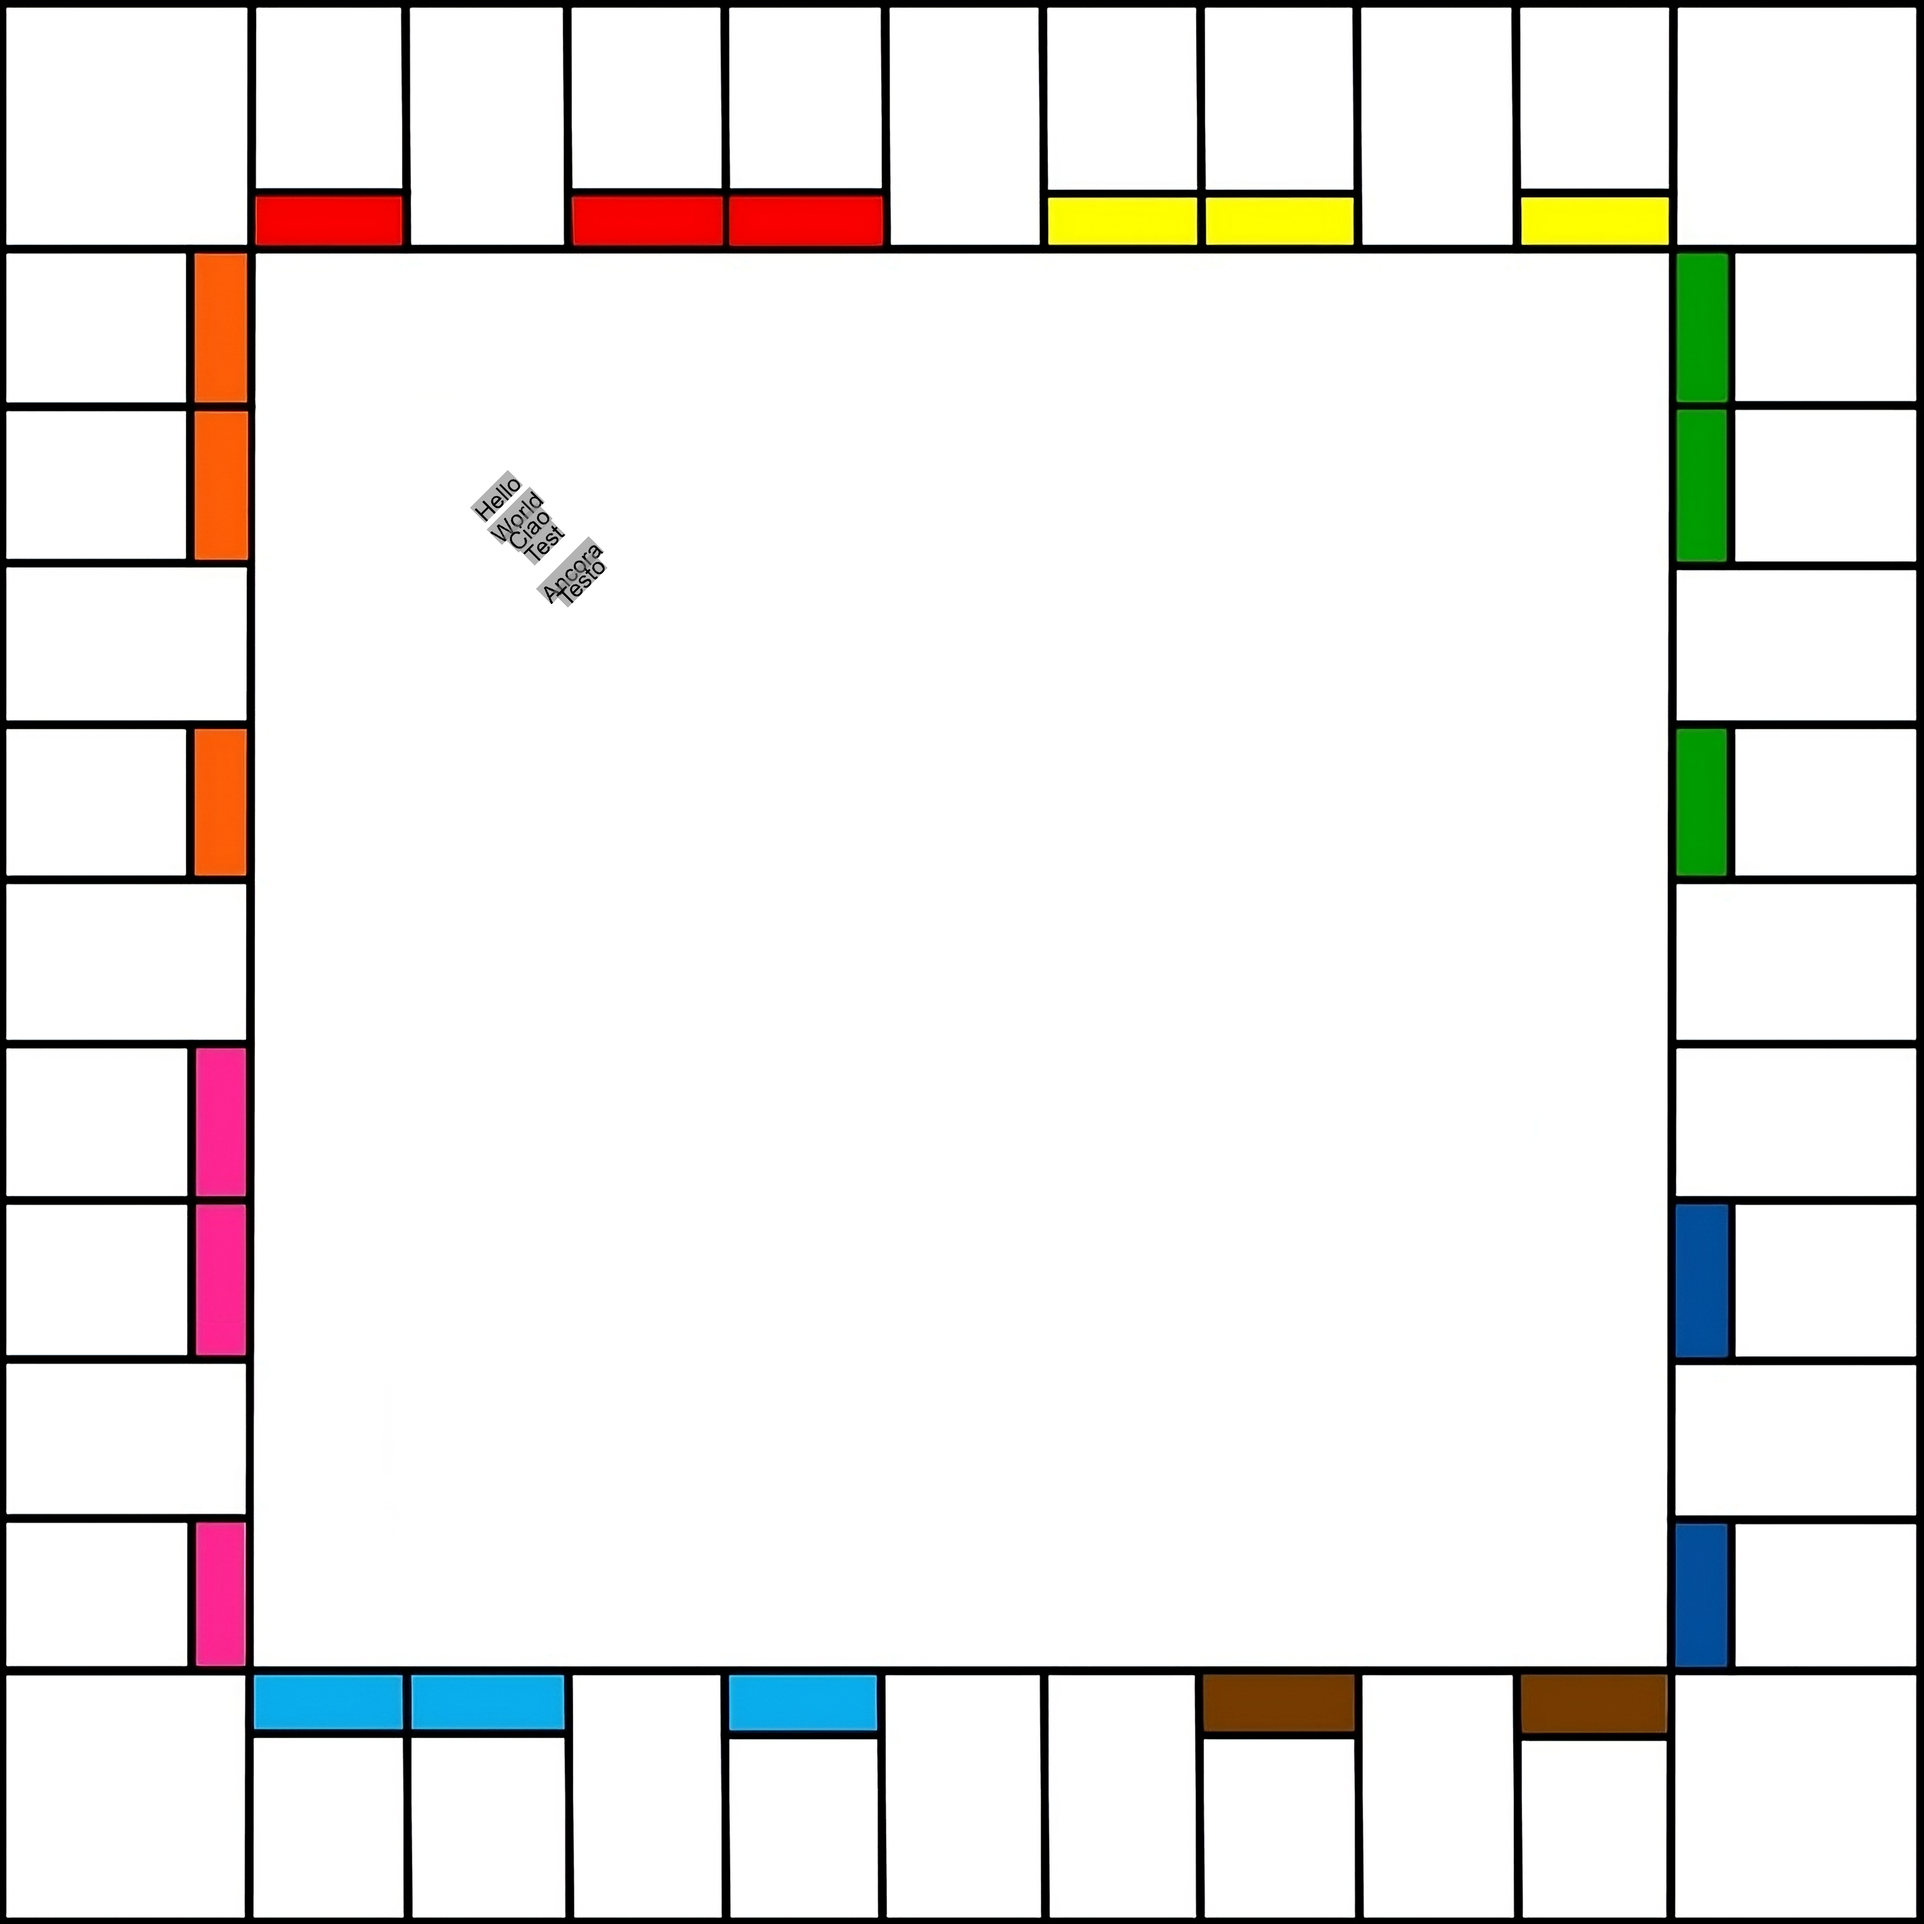
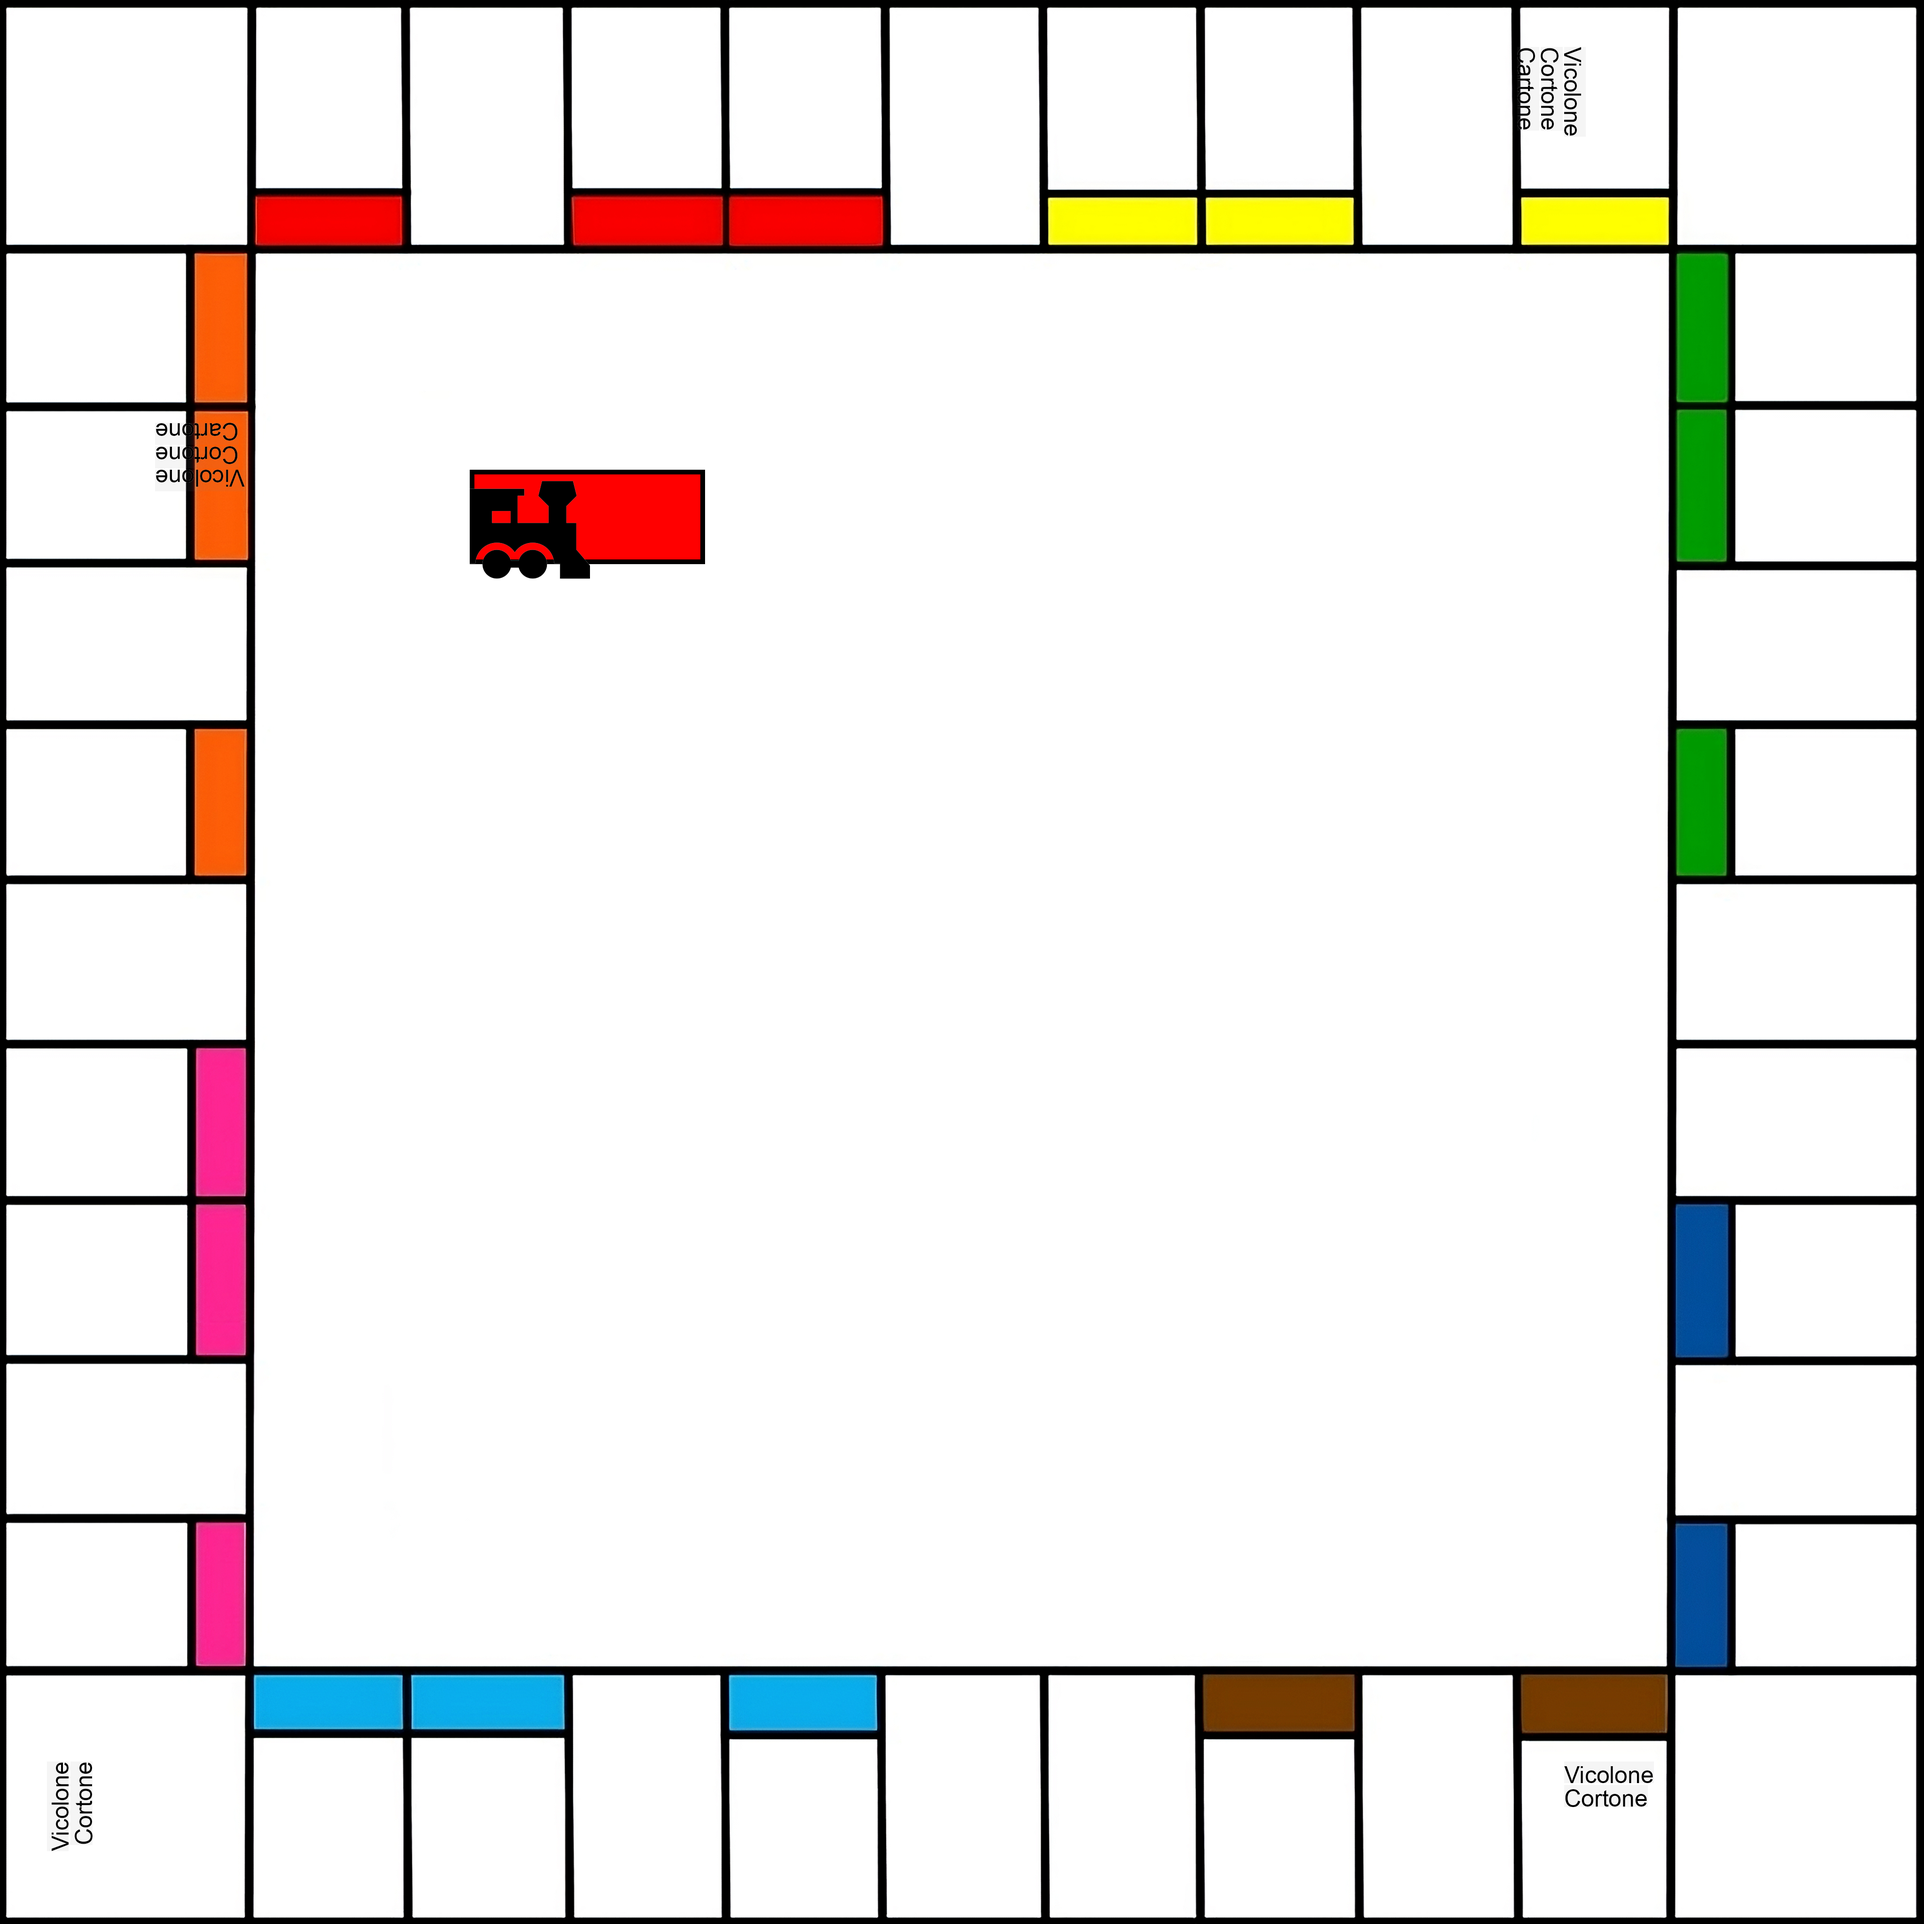
Added methods for adding images and rectangles

diff --git a/src/main.py b/src/main.py
@@ -10,39 +10,56 @@ LINE_SPACING = 50
 DECIMALS = 10
 
 class ImageEditor:
-    def __init__(self, image_path, font_type=FONT_TYPE, font_size=FONT_SIZE, font_color=FONT_COLOR):
-        self.image = Image.open(image_path)
-        self.draw = ImageDraw.Draw(self.image)
-        self.font = ImageFont.truetype(font_type, font_size) 
-        self.text_color = font_color  
-    #rotates and adds text to an image
-    def add_rotated_text(self, text, position, order , tilt):
-            position = self.getMultilineTextPosition(position, order, tilt)
-            textWidth, textHeight = self.font.getsize(text)
-            tempImage = Image.new('RGBA', (textWidth, textHeight), (0, 0, 0, 100))
-            tempDraw = ImageDraw.Draw(tempImage)
-            tempDraw.text((0, 0), text, font=self.font, fill=(0, 0, 0))
-            tempImage = tempImage.rotate(tilt, expand=1)
-            self.image.paste(tempImage, position, tempImage)
-    
-    # calculates the offsett to the position of the text
-    def getMultilineTextPosition(self, position, order , tilt):
-            offsetx = order *LINE_SPACING* round (math.sin(math.radians(tilt)), DECIMALS) 
-            offsety = order *LINE_SPACING* round(math.cos(math.radians(tilt)), DECIMALS)
-            position = (position[0] + int(offsetx), position[1] + int(offsety))
-            return position
-    # adds text to the image
-    def add_text(self, text, position, tilt = 0):
-            lines = text.split("\n")
-            for i in range (0, len(lines)):
-                self.add_rotated_text(lines[i], position, i,tilt)
-        
-    def save_image(self, output_path):
-        self.image.save(output_path)
+        def __init__(self, image_path, font_type=FONT_TYPE, font_size=FONT_SIZE, font_color=FONT_COLOR):
+                self.image = Image.open(image_path)
+                self.draw = ImageDraw.Draw(self.image)
+                self.font = ImageFont.truetype(font_type, font_size) 
+                self.text_color = font_color
+        def addRectangle (self, position, size, fill_color, outline_color, outline_width = 10):
+                self.draw.rectangle([position, (position[0]+size[0], position[1]+size[1])], fill=fill_color, outline=outline_color, width=outline_width)
+
+        #rotates and adds text to an image
+        def add_rotated_text(self, text, position, order , tilt):
+                position = self._getMultilineTextPosition(position, order, tilt)
+                textWidth, textHeight = self.font.getsize(text)
+                tempImage = Image.new('RGBA', (textWidth,textHeight), (0, 0, 0, 10))
+                tempDraw = ImageDraw.Draw(tempImage)
+                tempDraw.text((0, 0), text, font=self.font, fill=(0, 0, 0))
+                tempImage = tempImage.rotate(tilt, expand=1)
+                self.image.paste(tempImage, position, tempImage)
+
+        # calculates the offsett to the position of the text
+        def _getMultilineTextPosition(self, position, order , tilt):
+                offsetx = order *LINE_SPACING* round (math.sin(math.radians(tilt)), DECIMALS) 
+                offsety = order *LINE_SPACING* round(math.cos(math.radians(tilt)), DECIMALS)
+                position = (position[0] + int(offsetx), position[1] + int(offsety))
+                return position
+        # adds text to the image
+        def add_text(self, text, position, tilt = 0):
+                lines = text.split("\n")
+                for i in range (0, len(lines)):
+                        self.add_rotated_text(lines[i], position, i,tilt)   
+        def save_image(self, output_path):
+                self.image.save(output_path)
+        def add_image (self, imagePath, position, size = 100):
+                image = Image.open(imagePath)
+                if size != 100: 
+                        image = image.resize((int(image.width*size/100), int(image.height*size/100)))
+                self.image.paste(image, position, image)
+
+
+
 
 path = "resources/img/DEFAULT/blankBoard.png"
 editor = ImageEditor(path)
-editor.add_text("Hello\nWorld\nCiao\nTest\nAncora\nTesto", (1000, 1000), 45)
-#editor.add_text("Hello\nWorld\nCiao", (100, 100), 0)
+#TODO design a way to get an accurate centered position for the text
+editor.add_text("Vicolone\nCortone", (3330, 3750), 0)
+editor.add_text("Vicolone\nCortone", (100, 3750), 90)
+editor.add_text("Vicolone\nCortone\nCartone", (3330 , 100), 270)
+editor.add_text("Vicolone\nCortone\nCartone", (330 , 1000), 180)
+editor.addRectangle ((1000,1000),(500,200), (255,0,0), (0,0,0))
+editor.add_image ("resources/img/DEFAULT/train.png", (1000, 1000), 50)
+
 editor.save_image("test.png")
 
+        
